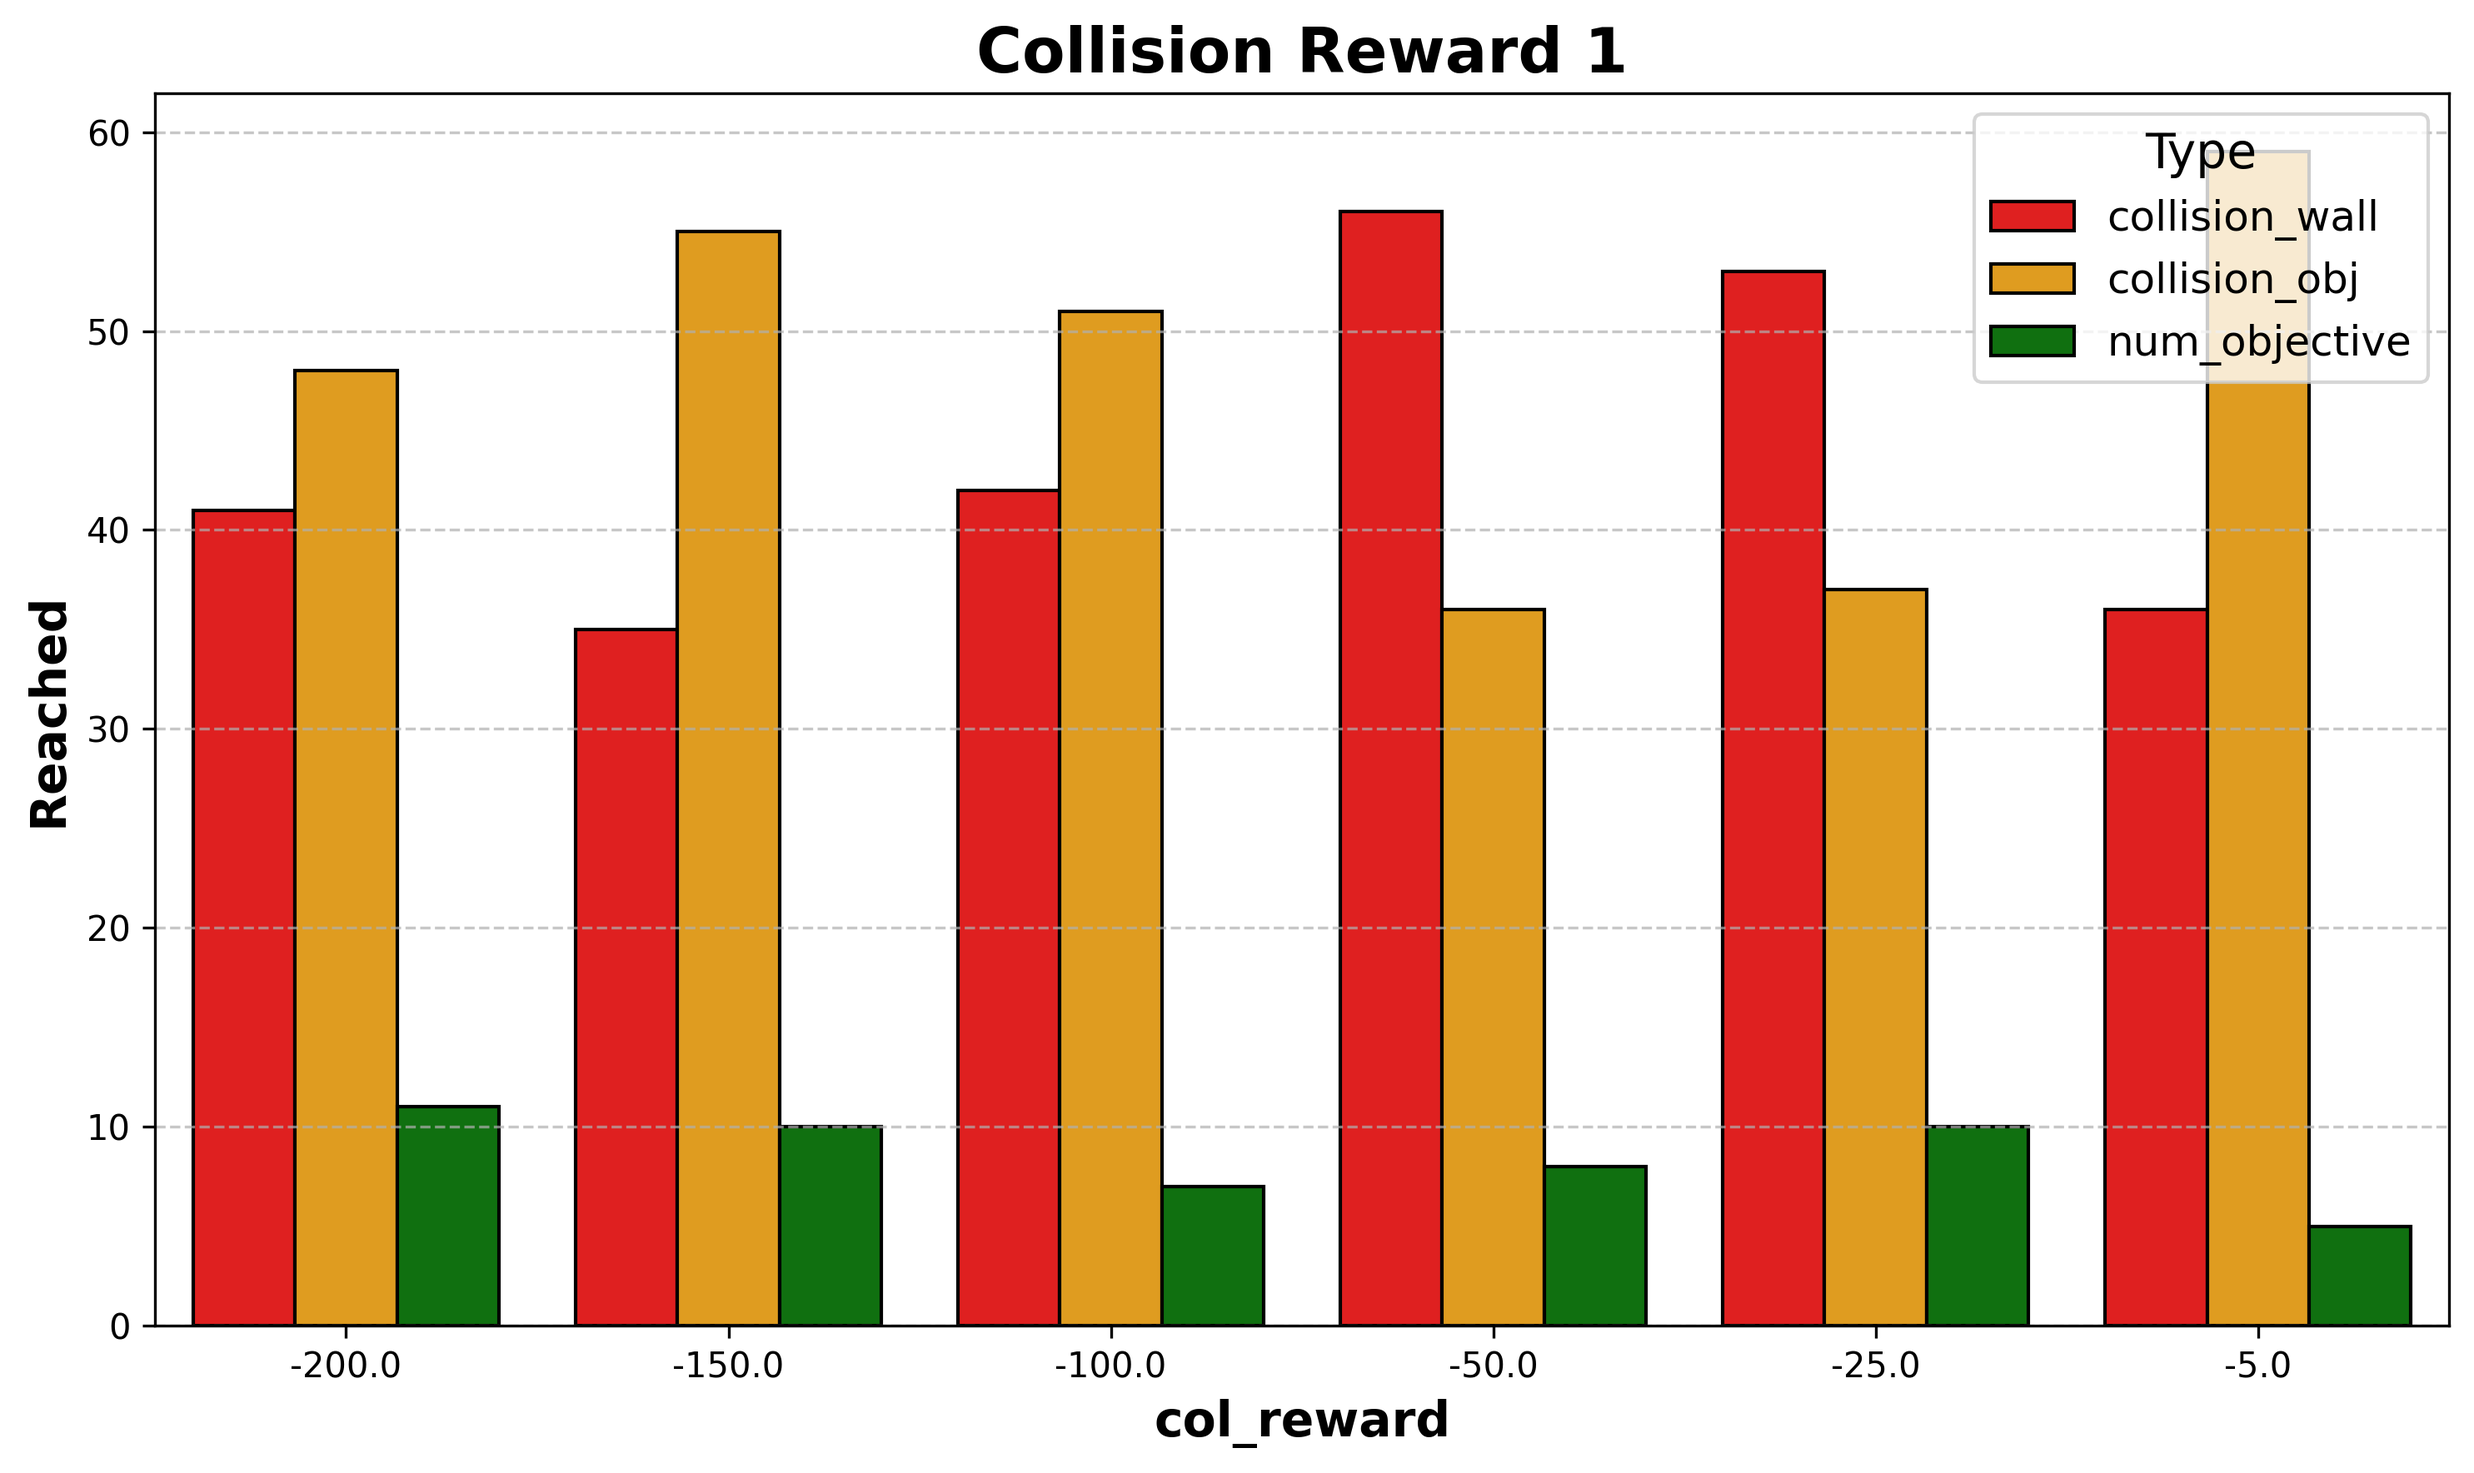
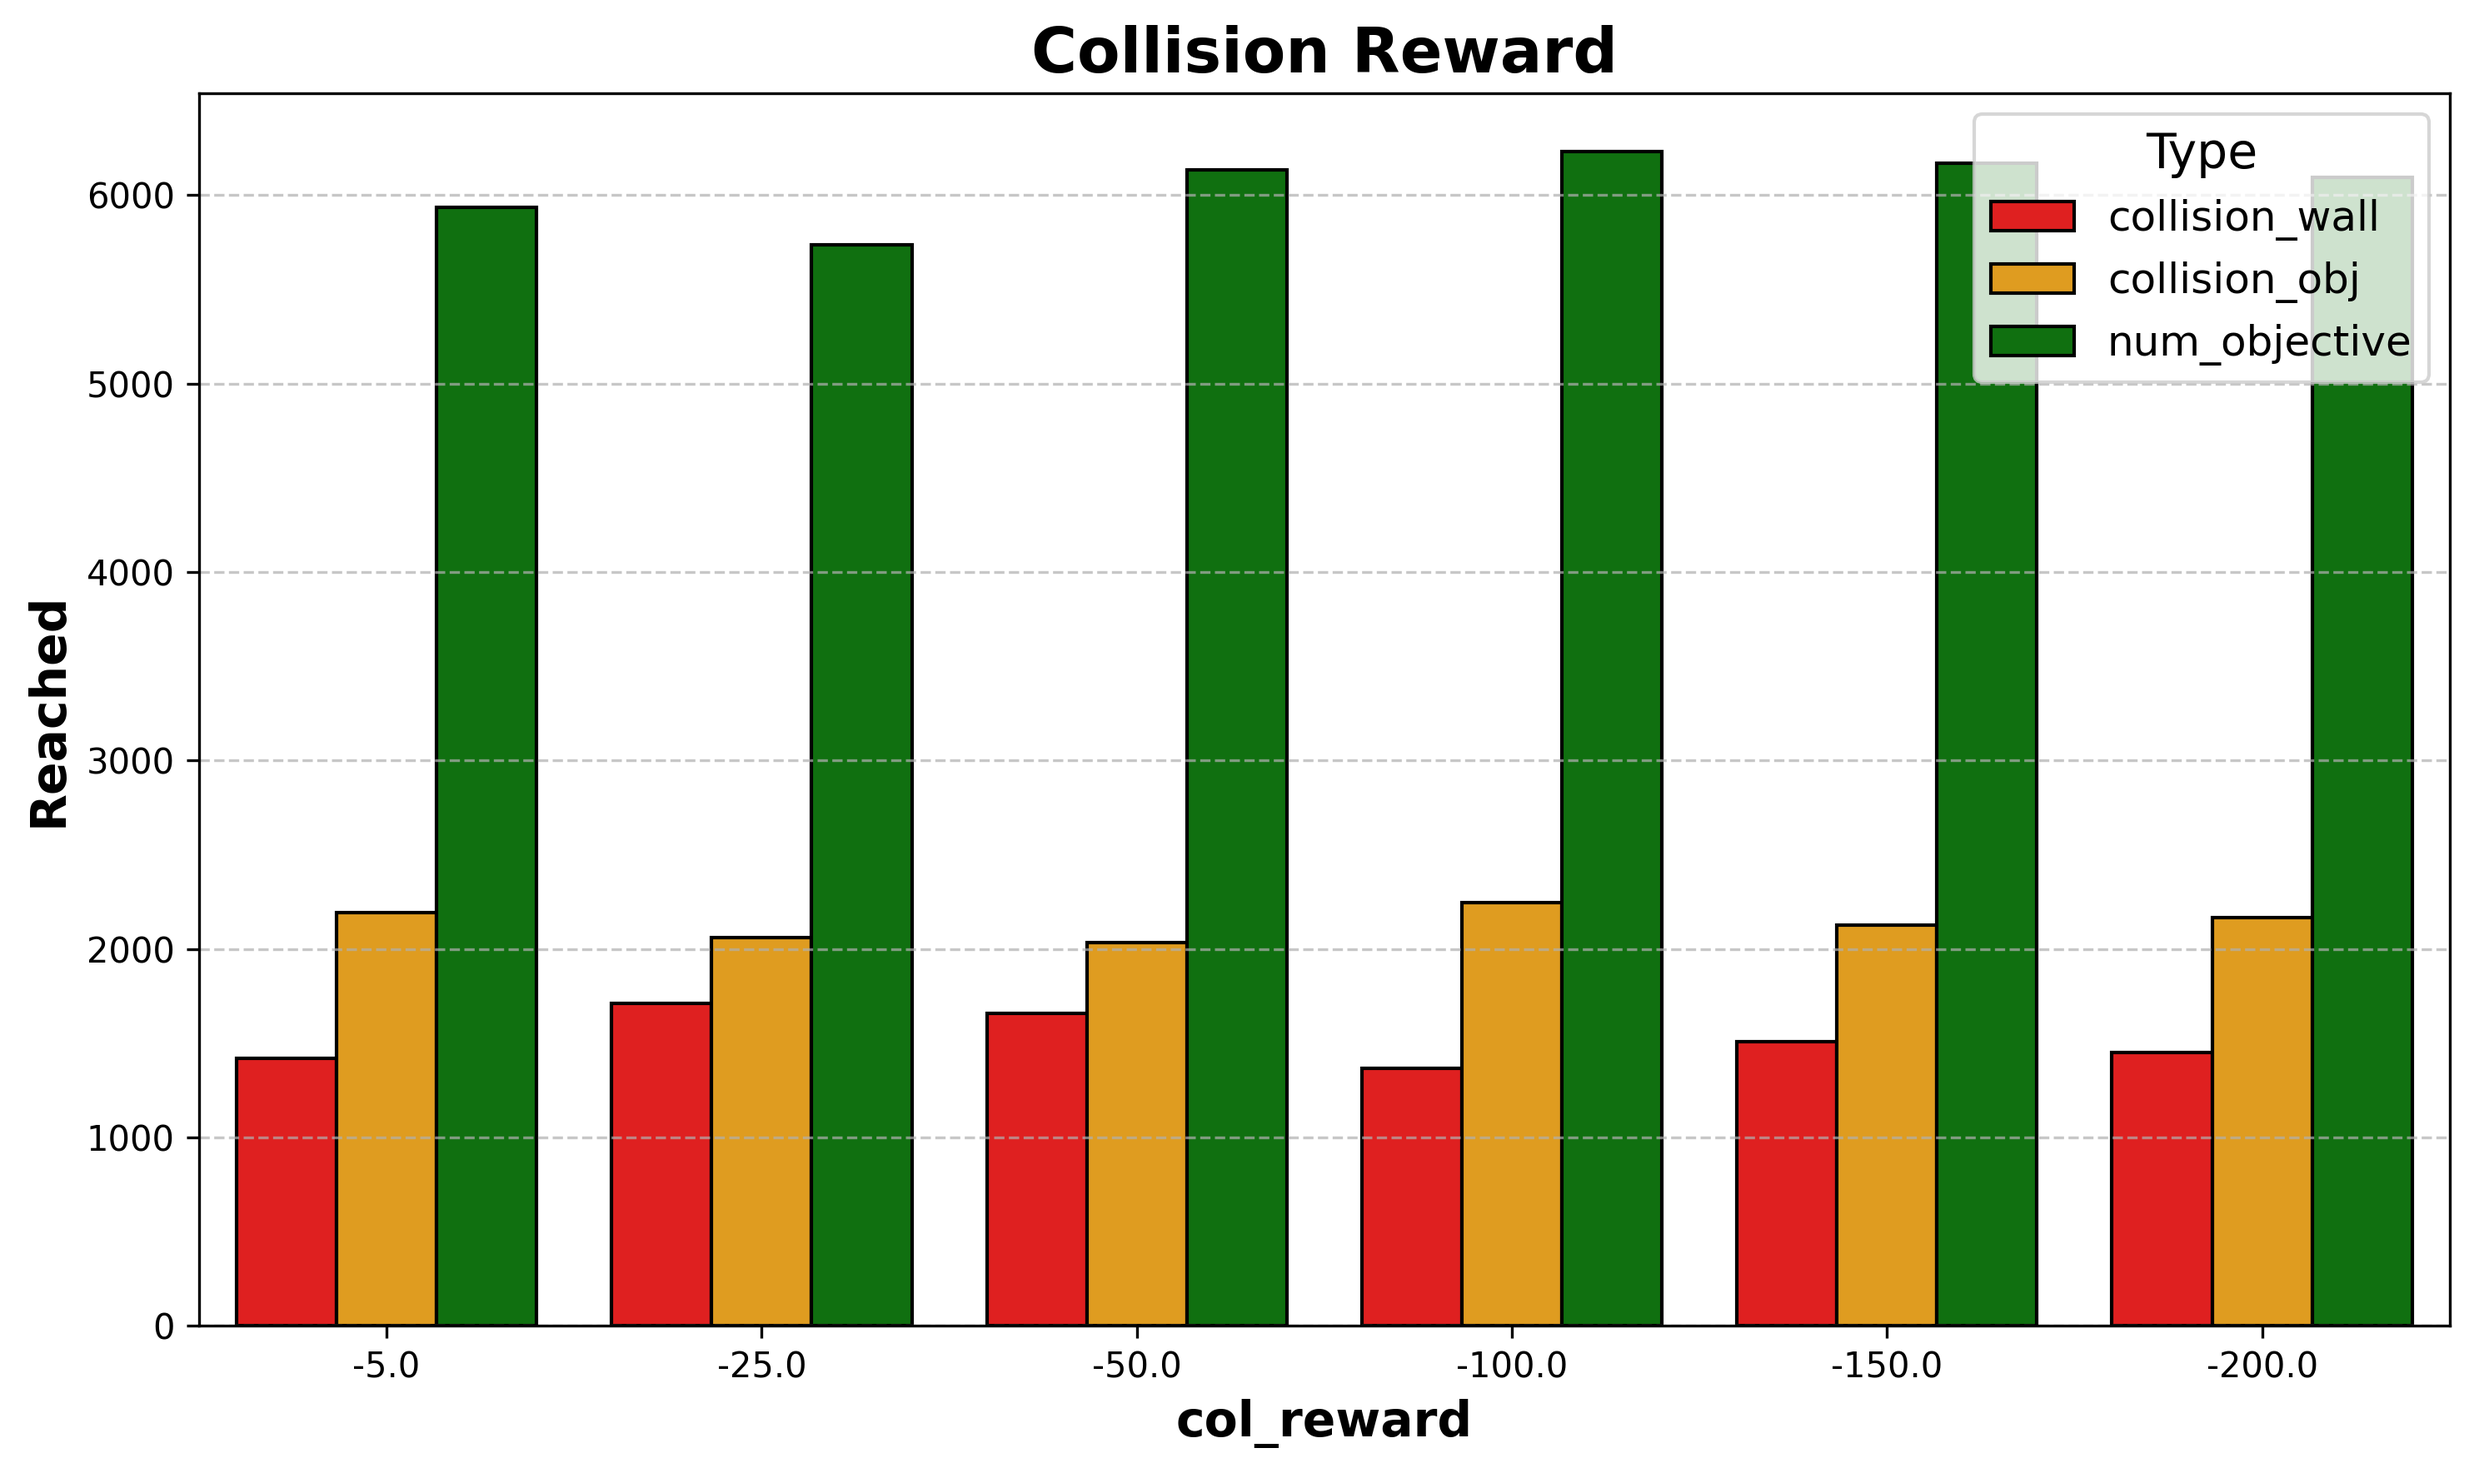
new file images for all approaches

diff --git a/scripts/draw_rewards.py b/scripts/draw_rewards.py
@@ -2,7 +2,7 @@ import seaborn as sns
 import matplotlib.pyplot as plt
 import pandas as pd
 
-def draw_barplot_results(data, title, save_path):
+def draw_barplot_results(data, title, save_path, column):
     """
     Draws a grouped bar plot for given data and saves it to the specified path.
     
@@ -14,14 +14,14 @@ def draw_barplot_results(data, title, save_path):
         save_path (str): The path where the bar plot image will be saved.
     """
     # Transform data to long format for easier plotting
-    data_long = data.melt(id_vars=["col_reward"], 
+    data_long = data.melt(id_vars=[column], 
                           value_vars=["collision_wall", "collision_obj", "num_objective"],
                           var_name="Type", value_name="Value")
     
     # Reverse the order of the 'col_reward' categories
-    sorted_categories = data["col_reward"][::-1]  # Reverse the order
-    data_long["col_reward"] = pd.Categorical(data_long["col_reward"], 
-                                             categories=sorted_categories, 
+    # sorted_categories = data[column][::-1]  # Reverse the order
+    data_long[column] = pd.Categorical(data_long[column], 
+                                             categories=data[column],
                                              ordered=True)
     
     # Set up the color palette
@@ -35,7 +35,7 @@ def draw_barplot_results(data, title, save_path):
     plt.figure(figsize=(10, 6))
     sns.barplot(
         data=data_long, 
-        x="col_reward", 
+        x=column, 
         y="Value", 
         hue="Type", 
         palette=color_palette, 
@@ -47,7 +47,7 @@ def draw_barplot_results(data, title, save_path):
     
     # Add title and labels
     plt.title(title, fontsize=18, weight='bold')
-    plt.xlabel("col_reward", fontsize=14, weight='bold')
+    plt.xlabel(column, fontsize=14, weight='bold')
     plt.ylabel("Reached", fontsize=14, weight='bold')
     
     # Customize legend
@@ -148,6 +148,18 @@ def draw_dual_barplot(data, title, save_path):
 if __name__ == "__main__":
     # Example data
     data_col_tr = pd.read_csv("./sensibility/collision_reward_1_tr.csv")
+    data_pickup_tr = pd.read_csv("./sensibility/pickup_reward_tr.csv")
 
-    draw_barplot_results(data_col_tr, "Collision Reward 1", "./sensibility/collision_reward_1_tr_results.png")
-    draw_dual_barplot(data_col_tr, "Collision Reward 1", "./sensibility/collision_reward_1_tr_steps_reward.png")
+    data_col_eval = pd.read_csv("./sensibility/collision_reward_1_eval.csv")
+    data_pickup_eval = pd.read_csv("./sensibility/pickup_reward_eval.csv")
+
+    # draw_barplot_results(data_col_tr, "Collision Reward 1", "./sensibility/collision_reward_1_tr_results.png")
+    # draw_dual_barplot(data_col_tr, "Collision Reward 1", "./sensibility/collision_reward_1_tr_steps_reward.png")
+
+
+    draw_barplot_results(data_col_tr, "Collision Reward", "./sensibility/collision_reward_1_tr_results.png", "col_reward")
+    draw_barplot_results(data_pickup_tr, "Pickup Reward", "./sensibility/pickup_reward_tr_results.png", "pickup_reward")
+
+    draw_barplot_results(data_col_eval, "Collision Reward", "./sensibility/collision_reward_1_eval_results.png", "col_reward")
+    draw_barplot_results(data_pickup_eval, "Pickup Reward", "./sensibility/pickup_reward_eval_results.png", "pickup_reward")
+

diff --git a/scripts/draw_train_approach.py b/scripts/draw_train_approach.py
@@ -1,0 +1,111 @@
+import pandas as pd
+import matplotlib.pyplot as plt
+import seaborn as sns
+
+import matplotlib.pyplot as plt
+import pandas as pd
+
+def draw_reward_training_graph(data, title, save_path):
+    """
+    Draws a reward training graph for the given data.
+    
+    Parameters:
+        data (pd.DataFrame): The input data containing reward columns.
+        title (str): Title of the graph.
+        save_path (str): Path to save the generated graph.
+    """
+    plt.figure(figsize=(10, 6))
+    
+    # Loop through each series in the dataframe
+    for col in data.columns:
+        if col.startswith("reward_"):
+            label = col.split("_")[-1]
+            plt.plot(data[col], label=f"{label}")
+    
+    plt.title(title)
+    plt.xlabel("Episodes")
+    plt.ylabel("Reward")
+    plt.legend()
+    plt.grid()
+    plt.savefig(save_path)
+    plt.close()
+
+def draw_steps_training_graph(data, title, save_path):
+    """
+    Draws a steps training graph for the given data.
+    
+    Parameters:
+        data (pd.DataFrame): The input data containing step columns.
+        title (str): Title of the graph.
+        save_path (str): Path to save the generated graph.
+    """
+    plt.figure(figsize=(10, 6))
+    
+    # Loop through each series in the dataframe
+    for col in data.columns:
+        if col.startswith("steps_"):
+            label = col.split("_")[-1]
+            plt.plot(data[col], label=f"{label}")
+    
+    plt.title(title)
+    plt.xlabel("Episodes")
+    plt.ylabel("Steps")
+    plt.legend()
+    plt.grid()
+    plt.savefig(save_path)
+    plt.close()
+
+def draw_success_training_graph(data, title, save_path):
+    """
+    Draws a success rate training graph for the given data.
+    
+    Parameters:
+        data (pd.DataFrame): The input data containing end columns.
+        title (str): Title of the graph.
+        save_path (str): Path to save the generated graph.
+    """
+    plt.figure(figsize=(10, 6))
+    
+    # Loop through each series in the dataframe
+    for col in data.columns:
+        if col.startswith("end_"):
+            label = col.split("_")[-1]
+            # Count only zeros, ignoring other values and NaN
+            zero_count = (data[col] == 0).cumsum()
+            print(f"{col} - {zero_count}")
+            success_rate = zero_count / (data.index + 1)
+            plt.plot(success_rate, label=f"Epsilon {label}")
+
+    plt.title(title)
+    plt.xlabel("Episodes")
+    plt.ylabel("Success Rate")
+    plt.legend()
+    plt.grid()
+    plt.savefig(save_path)
+    plt.close()
+
+
+
+if __name__ == "__main__":
+
+    types = [
+        "learning_rate",
+        "epsilon",
+        "discount_factor",
+        "n_tilings",
+        "n_wh"
+    ]
+
+    # Load the data
+
+    for type in types:
+        data = pd.read_csv(f"./train_approach/results_{type}.csv")
+
+        # Draw the graphs
+        # draw_reward_training_graph(data, f"{type} Sensibility", f"./train_approach/{type}_reward.png")
+        # draw_steps_training_graph(data, f"{type} Sensibility", f"./train_approach/{type}_steps.png")
+        draw_success_training_graph(data, f"{type} Sensibility", f"./train_approach/{type}_success.png")
+
+
+
+
